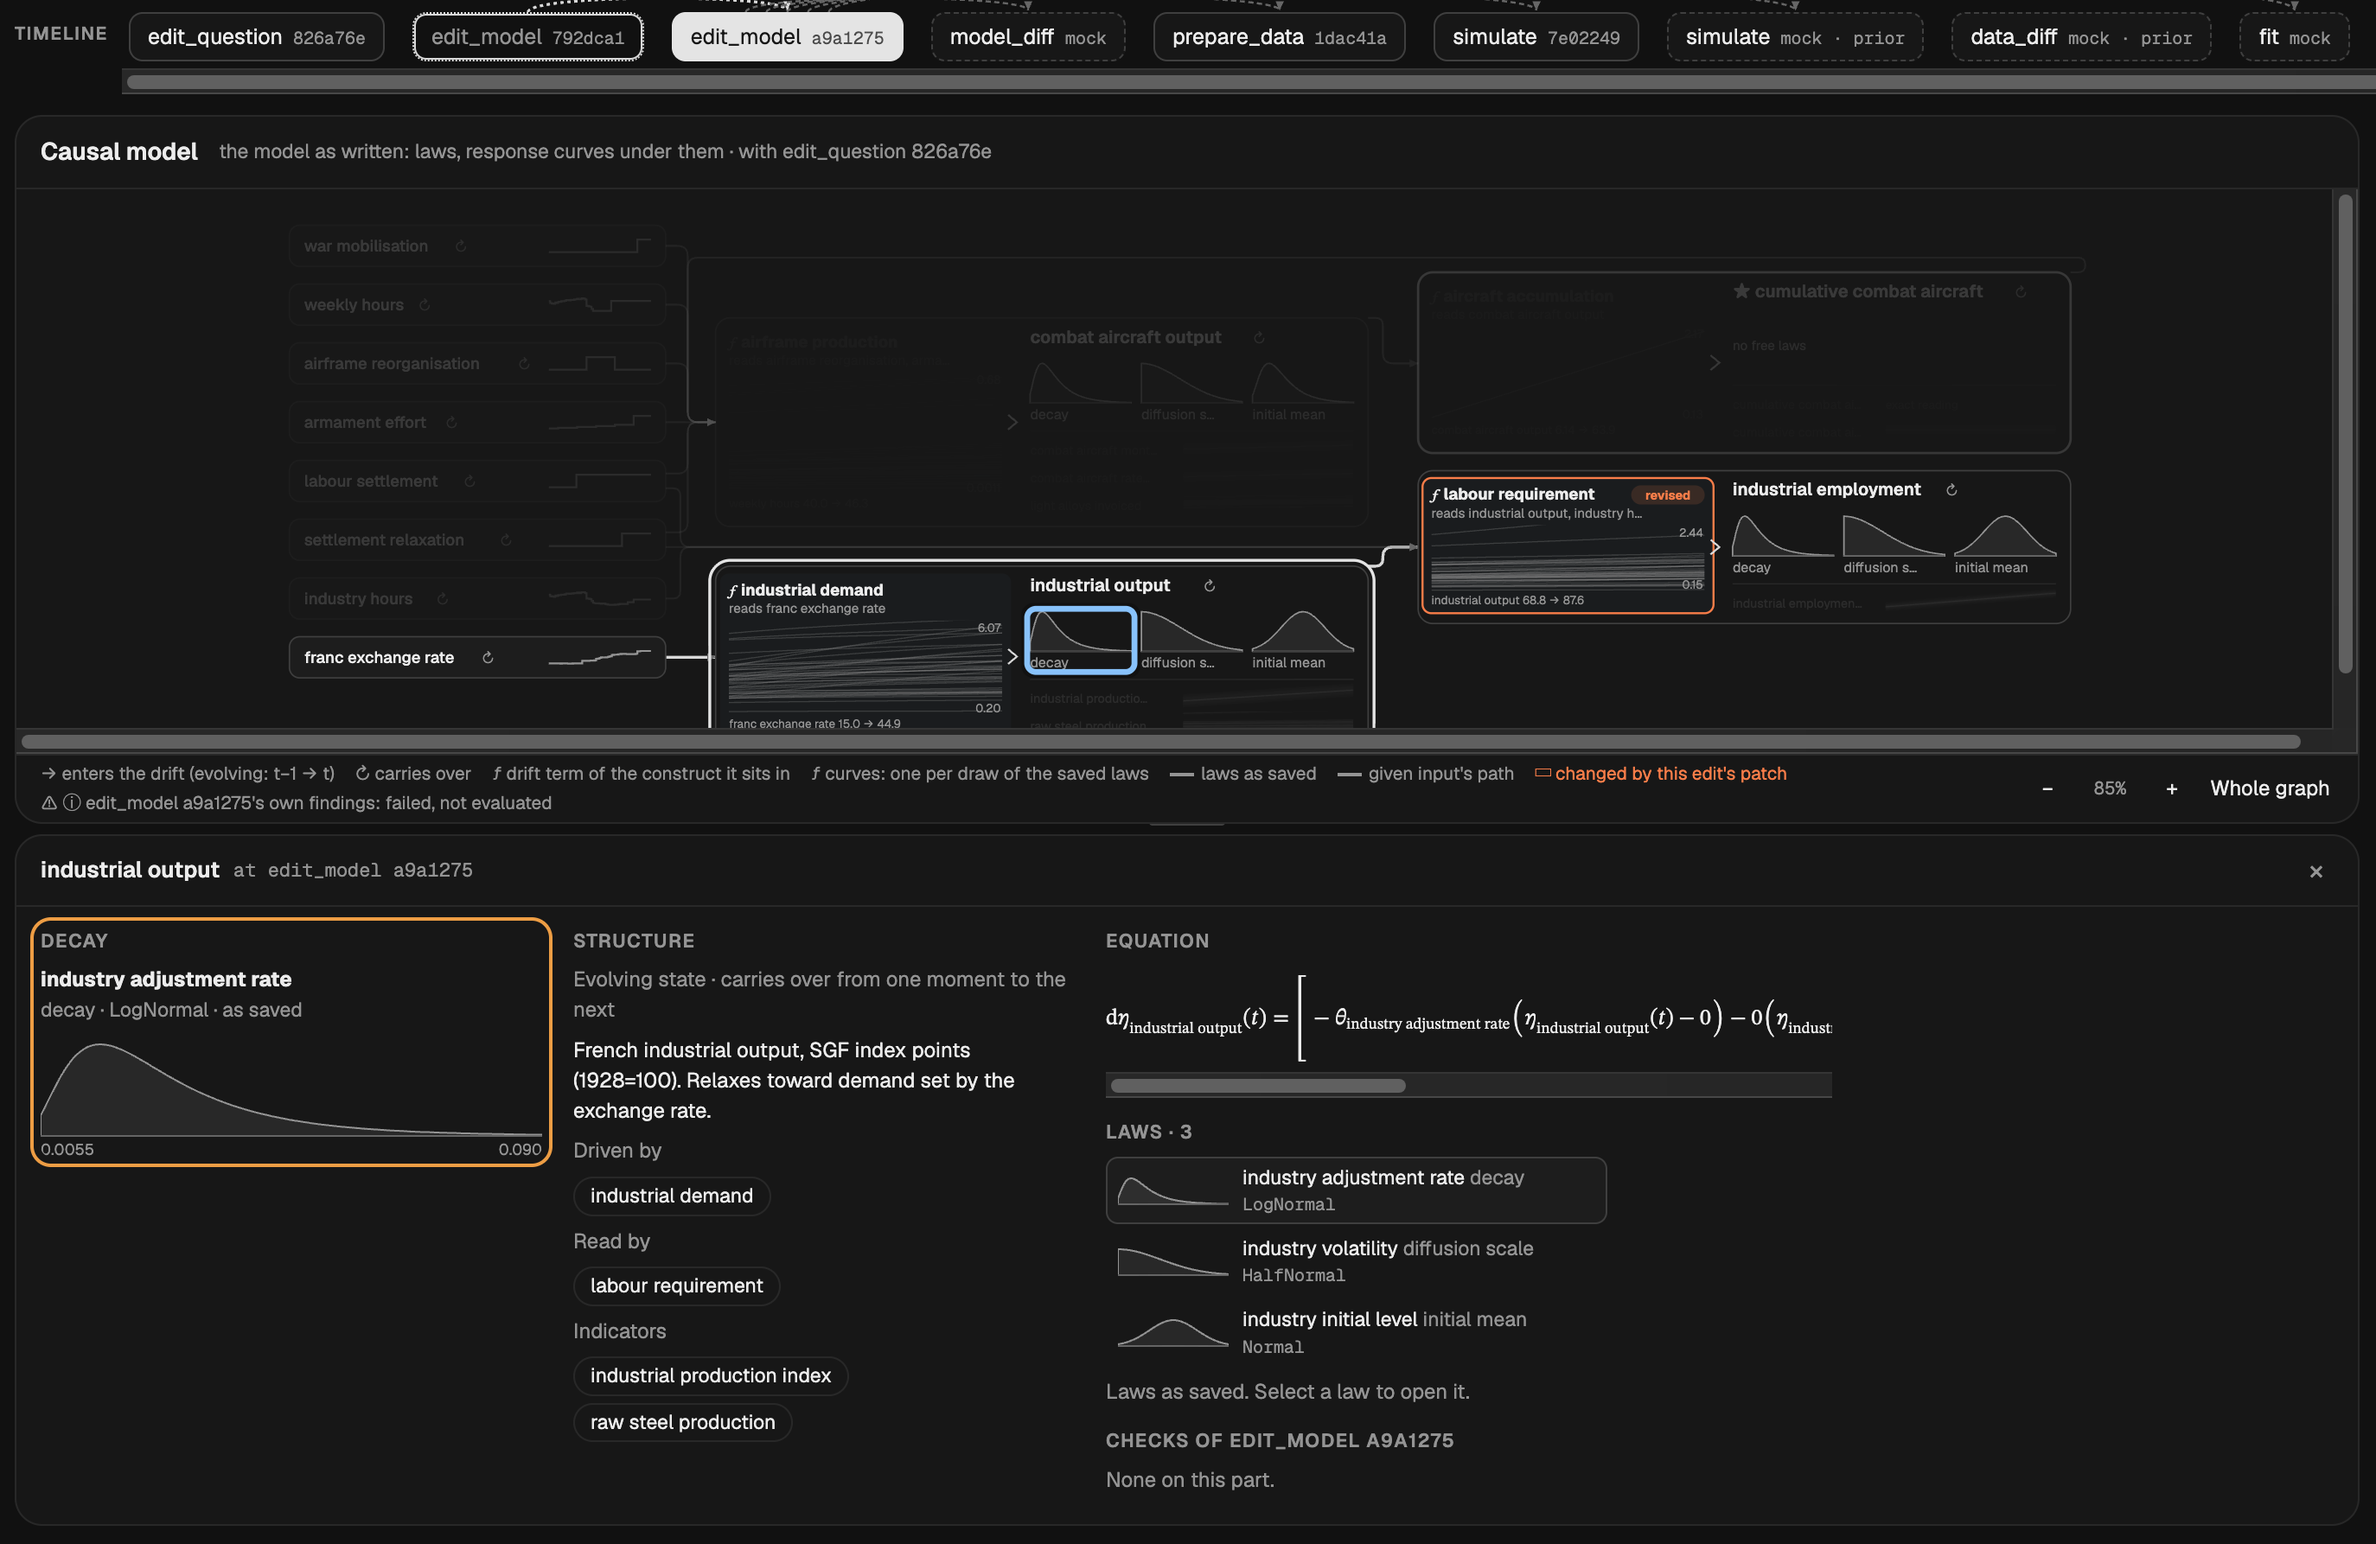
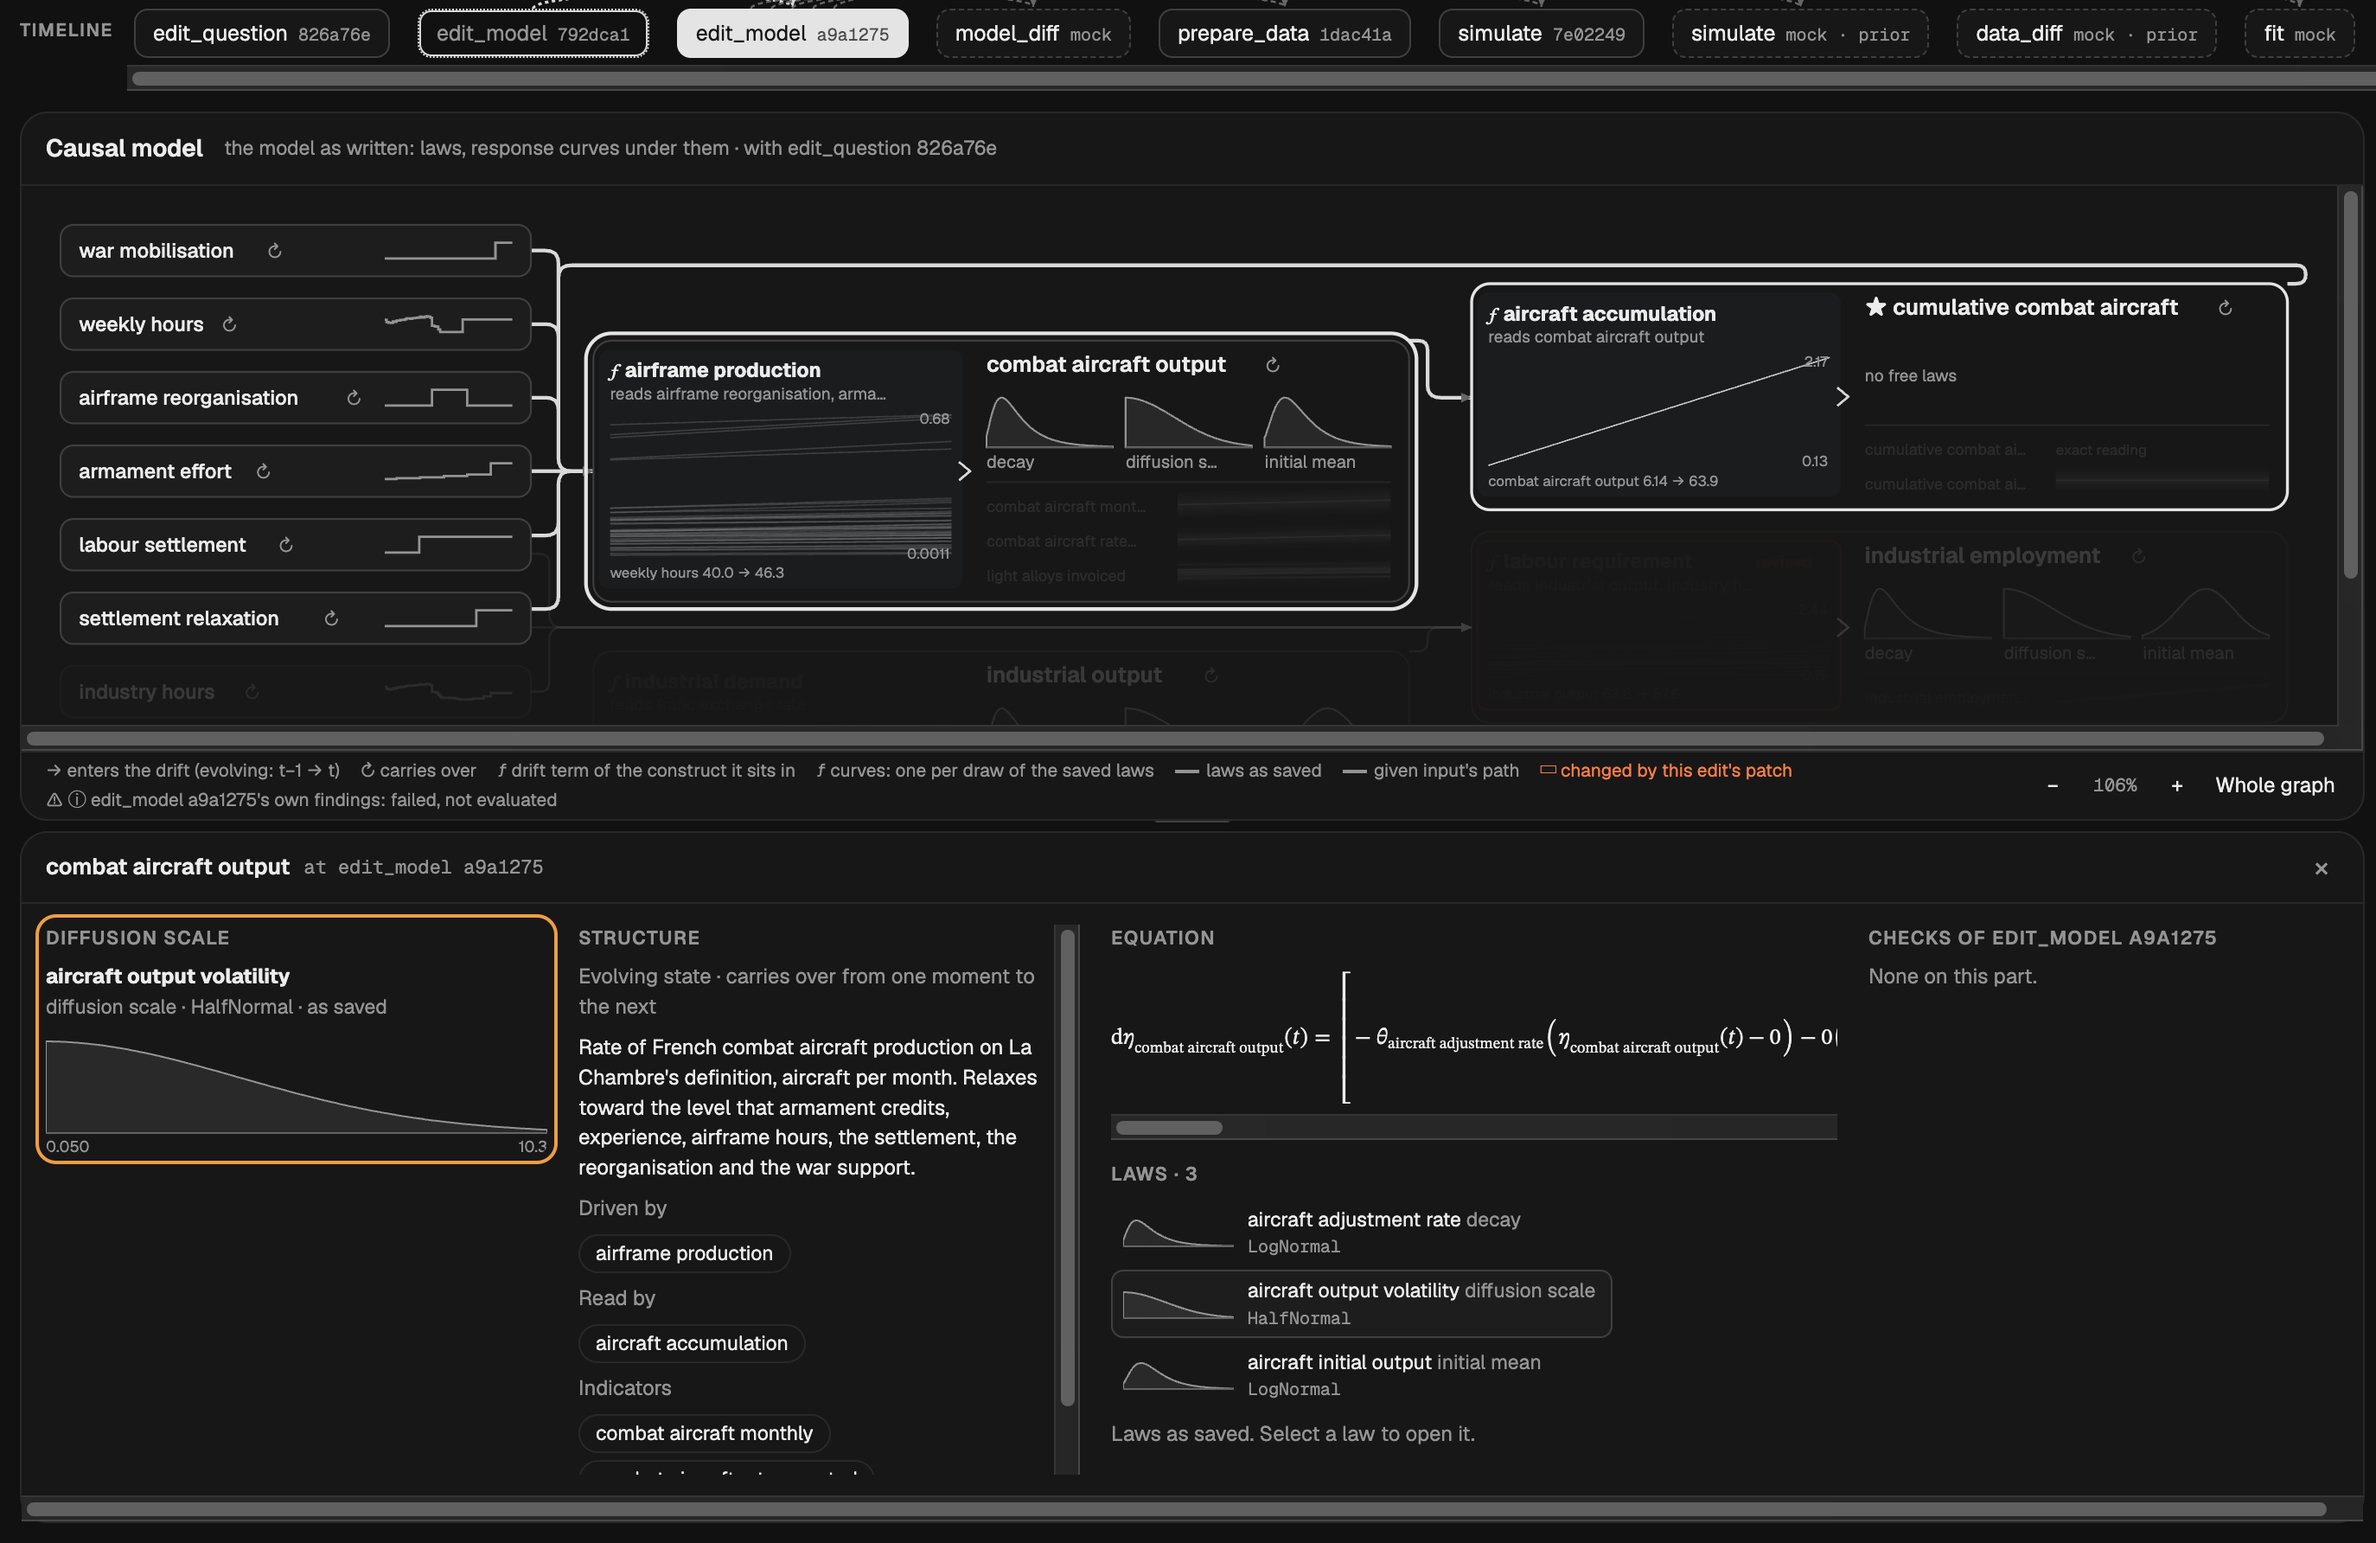
docs(readme): show combat aircraft output in the FRANCE1940 screenshot
The model-view screenshot now opens combat aircraft output on its
diffusion scale law, from the user's 17:39 screenshot.

diff --git a/README.md b/README.md
@@ -8,7 +8,7 @@
 
 **grassmoth** is an opinionated LLM harness for end-to-end Bayesian causal inference on longitudinal data.
 
-![Mechanism map of the FRANCE1940 model as written, with industrial output open to show its decay law, structure, drift equation and laws](docs/assets/screenshots/france1940-model.png)
+![Mechanism map of the FRANCE1940 model as written, with combat aircraft output open to show its diffusion scale law, structure, drift equation and laws](docs/assets/screenshots/france1940-model.png)
 
 > Would the Battle of France have gone differently had the French not limited the work week to 40 hours? ([Willemyns & McClements, 2026](https://juliawillemyns.substack.com/p/nobody-decides-to-decline))
 
